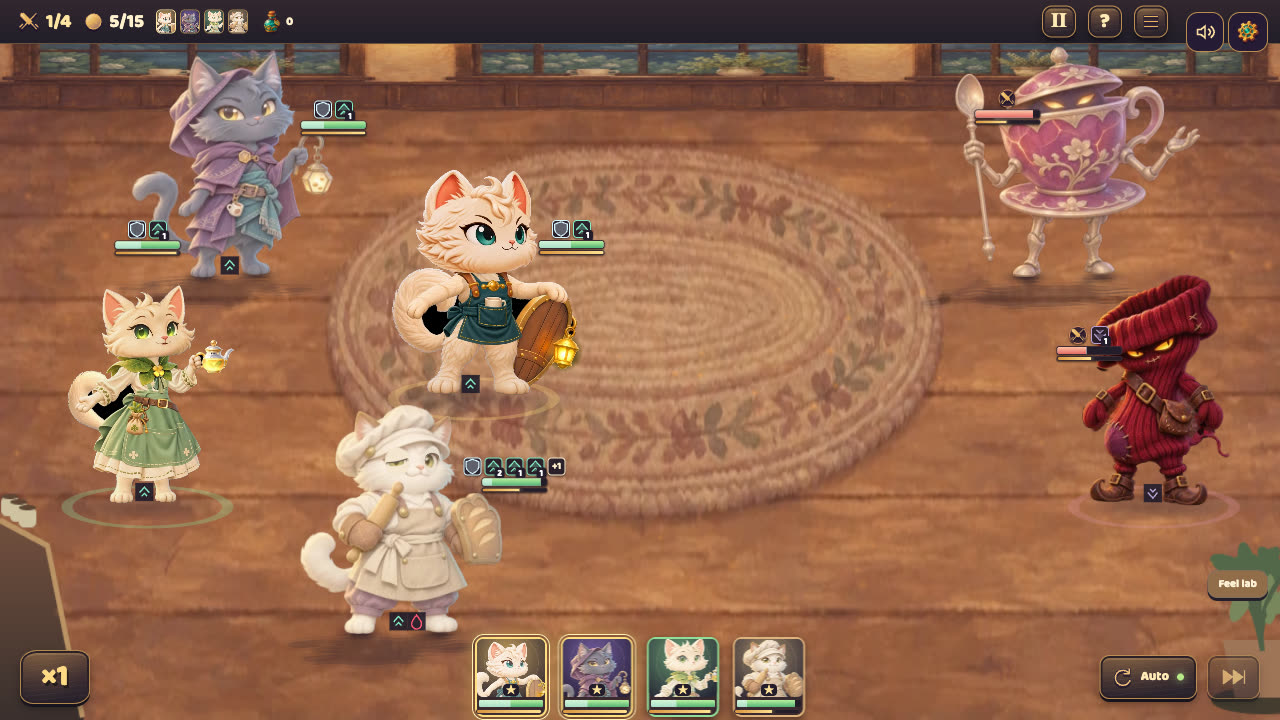
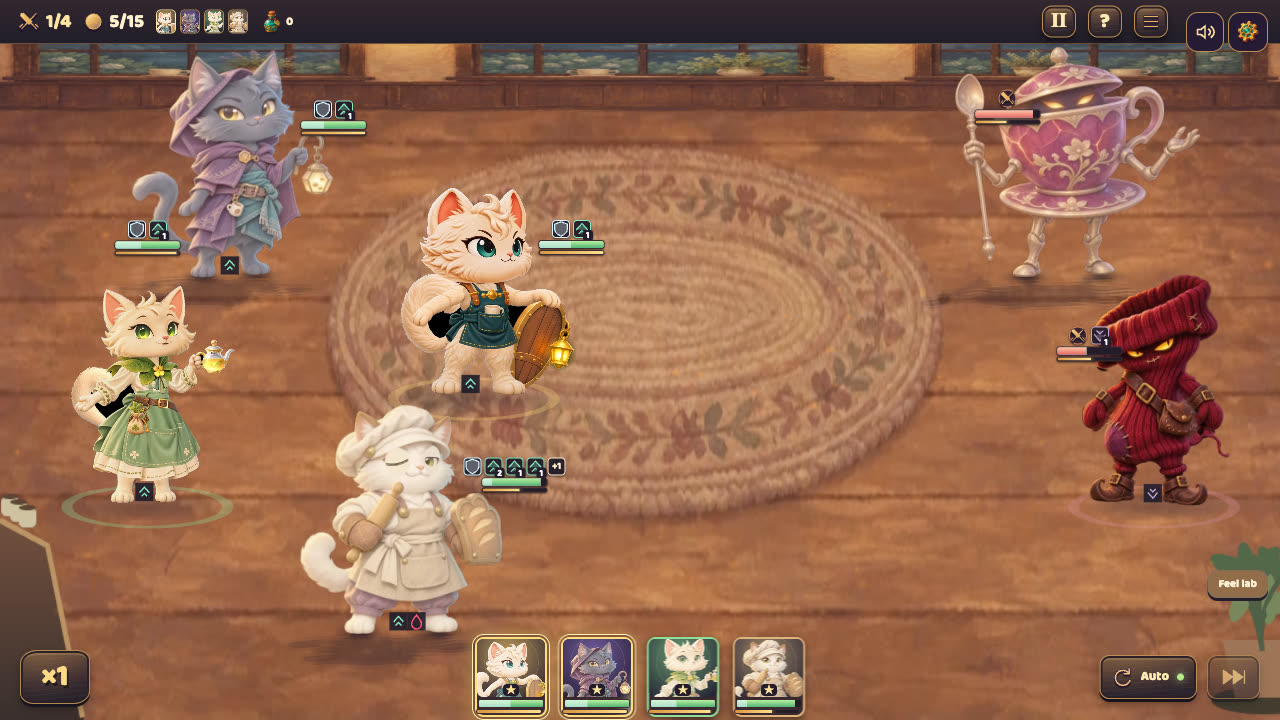
V9 C1: trim Mochi's drawn body 8% so it reads level with Clover

diff --git a/apps/web/src/game/cardrpg/spine/designer-video.ts b/apps/web/src/game/cardrpg/spine/designer-video.ts
@@ -15,6 +15,9 @@ import type {OpaqueWorldBounds} from './../stage/opaque-pose-bounds';
 export const DESIGNER_VIDEO_IDS=new Set(['mochi','clover','soot']);
 /** Body height in actor units; the C2 layout rescales every actor to its seat. */
 export const DESIGNER_BODY_UNITS=512;
+/** Seats are equal height; Mochi's broad fur and big head read ~8% larger than
+ * slender Clover at the same height, so its drawn body is trimmed to match. */
+export const DESIGNER_DISPLAY_SCALE:Record<string,number>={mochi:.92,clover:1,soot:1};
 
 export interface DesignerVideoMeta {
  fps:number;frames:number;width:number;height:number;feetY:number;heightPx:number;
@@ -137,9 +140,14 @@ export async function loadDesignerVideoActor(actor:SpineActor,root=''):Promise<b
  const meta=validateDesignerVideoMeta(await response.json());
  const media=new DesignerVideoMedia(meta,folder,folder+'poster.webp');
  if(!await media.ready){const failure=media.failure;media.dispose();throw Error(failure??'Designer video unavailable');}
- const body=designerBodyRect(meta),adapter=new DesignerVideoActorMedia(media,body);
+ const full=designerBodyRect(meta),display=DESIGNER_DISPLAY_SCALE[id]??1;
+ // Layout seats the full body box; the drawing and its opaque box shrink about the feet.
+ media.plane.scale.setScalar(display);media.plane.position.multiplyScalar(display);
+ // The seat normaliser clamps the opaque box to +-1.5% of the seat, so the box it
+ // measures stays the full one; sockets and the hp bar follow the drawn body.
+ const body={x:full.x*display,y:0,width:full.width*display,height:full.height*display},adapter=new DesignerVideoActorMedia(media,full);
  actor.designerMedia=adapter;actor.designerIdle=true;actor.source='media';actor.root.add(media.plane);media.onFrame=()=>actor.onMediaFrame?.();
- Object.assign(actor.bounds,{x:body.x,y:body.y,width:body.width,height:body.height});
+ Object.assign(actor.bounds,{x:full.x,y:full.y,width:full.width,height:full.height});
  actor.faceRegion=unitFace(id,actor.bounds);
  for(const [socket,[fx,fy]] of Object.entries(SOCKETS))actor.sockets.get(socket as SpineSocket)?.position.set(fx*body.height,fy*body.height,1);
  for(const name of actor.unit.animations){
